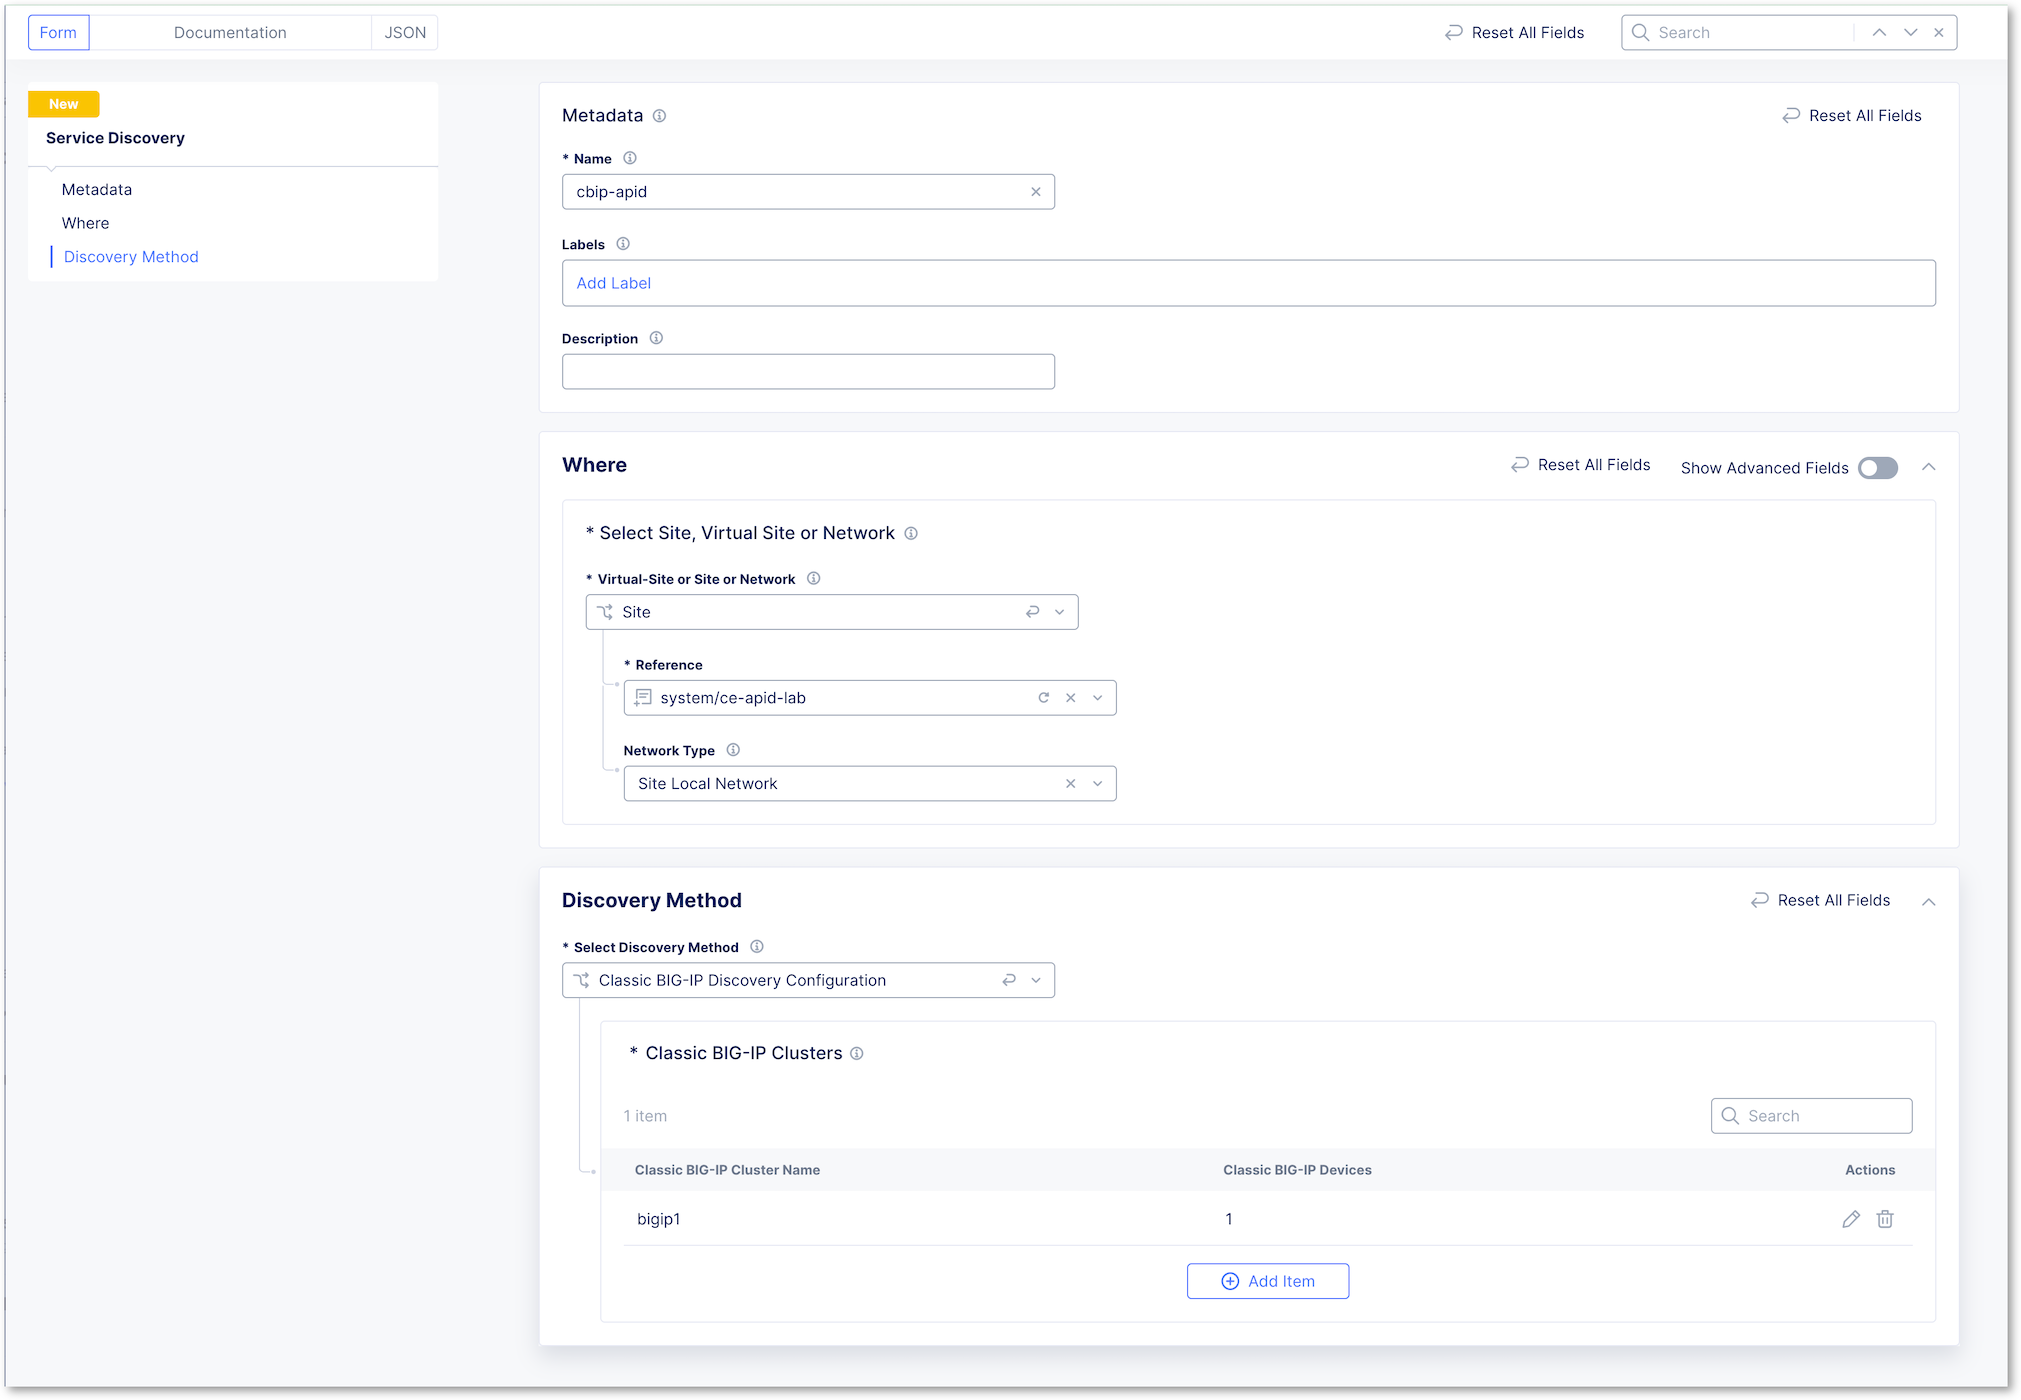
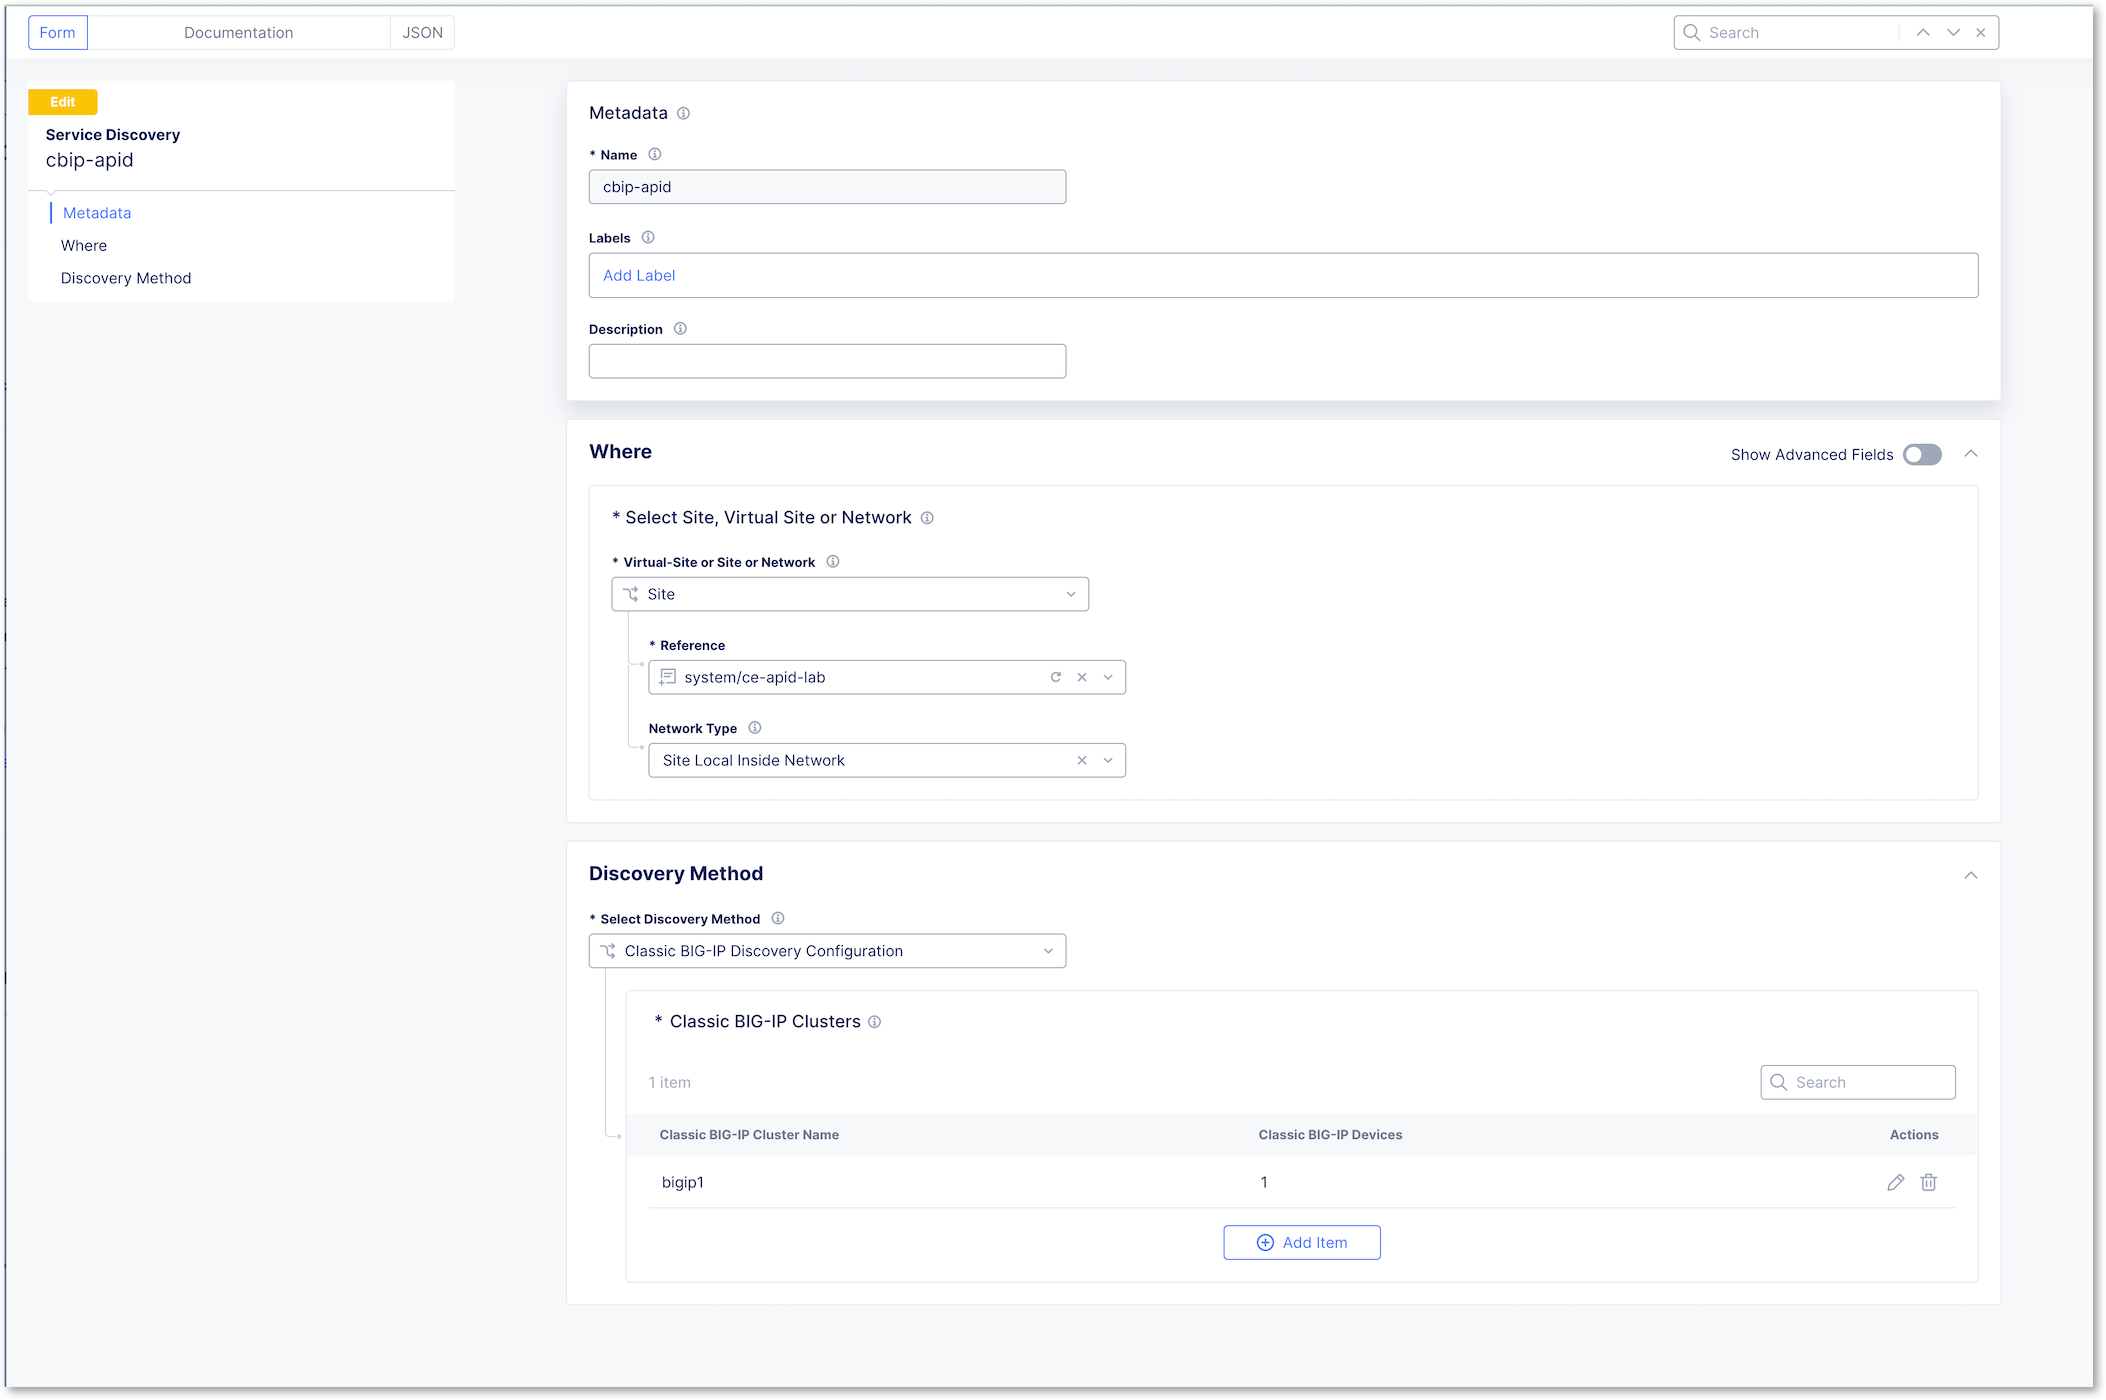
cbip apid2

diff --git a/docs/class4/module2/lab5/lab5.rst b/docs/class4/module2/lab5/lab5.rst
@@ -1,5 +1,5 @@
-Enable API on-premises discovery  (under construction)
-======================================================
+Enable API discovery for BIG-IP (under construction)
+====================================================
 
 In the previous lab, we learnt how F5 Distributed Cloud can discover API Endpoints when those endpoints are exposed on F5 Distributed Cloud infrastructure. 
 But many modern applications (API firt) reside on-premises behind BIG-IP. In order to offer the same level of services, F5 deployed the on-premises API Discovery for BIG-IP.
@@ -52,7 +52,7 @@ Go to Multi-Cloud App Connect tile > Manage > Service Discovery, and create a ne
 Configure the service discovery so it can find the BIG-IP
 
 * Select your CE under ``Reference``
-* Select ``Site Local Network`` under ``Network Type`` <- This is the interface on the BIG-IP Mgmt network
+* Select ``Site Local Inside Network`` under ``Network Type`` <- This is the interface on the BIG-IP Mgmt network
 * Click ``Add Item`` under ``Classic BIG-IP Clusters``
 
 .. image:: ../pictures/create-service-discovery.png
@@ -63,7 +63,7 @@ Configure the service discovery so it can find the BIG-IP
 * Click Add Item under ``Classic BIG-IP Devices``
 * Configure with the BIG-IP settings
   
-  * Management IP: ``10.1.1.8``
+  * Management IP: ``10.1.20.8``
   * Admin username: ``admin``
   * Admin password: ``admin``
 
@@ -74,6 +74,16 @@ Your configuration should look like this
 .. image:: ../pictures/cbip-config.png
    :align: left
    :scale: 50%
+
+After few minutes, you can click on Refresh button, you should see ``1 services``. This service is the BIG-IP Virtual Server
+
+.. image:: ../pictures/vs-services.png
+   :align: left
+   :scale: 50%
+
+
+.. note:: At this stage, the BIG-IP is onboarded in F5 Distributed Cloud and API Discovery can be enabled on this BIG-IP (from the F5XC Console) so that the BIG-IP sends traffic logs to F5XC.
+
 
 
 Enable API Discovery on BIG-IP Virtual Server
